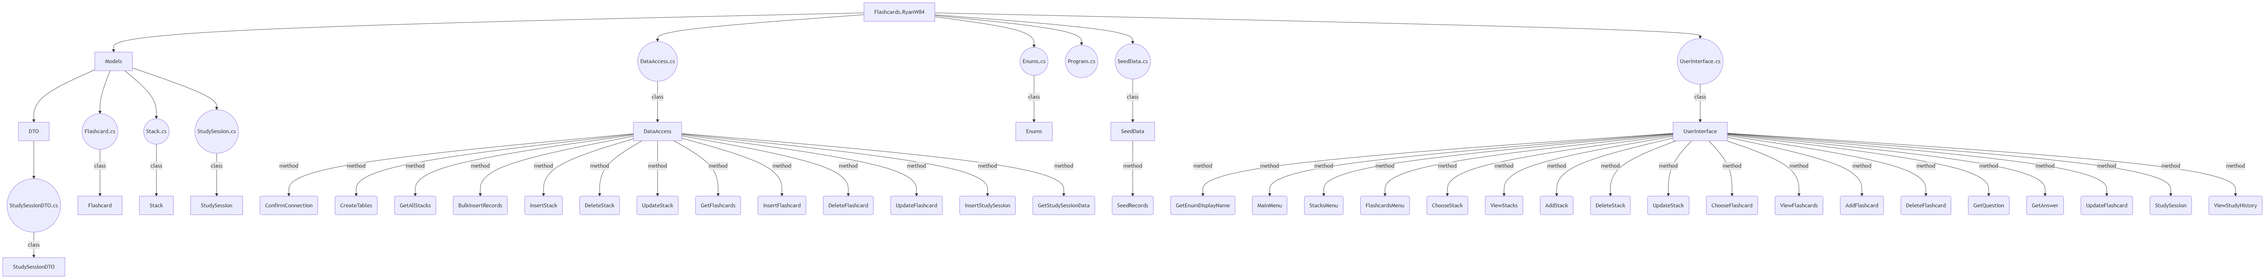
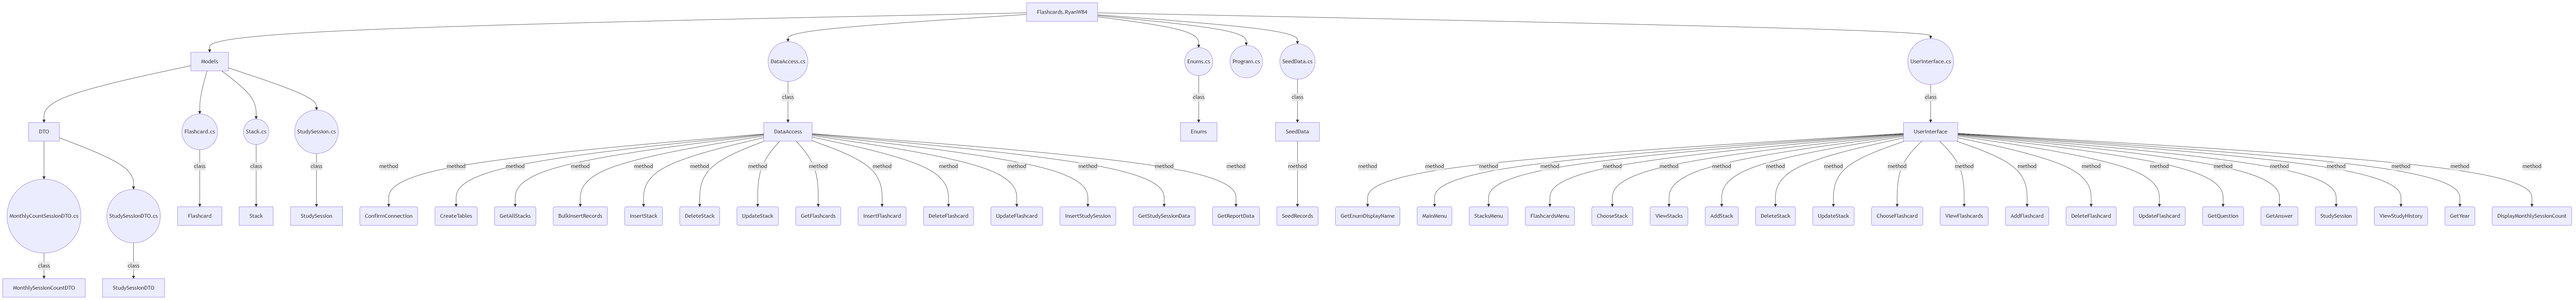
report functionality working, methods updated for screen clearing to improve usage

diff --git a/Flashcards.RyanW84/UserInterface.cs b/Flashcards.RyanW84/UserInterface.cs
@@ -1,4 +1,5 @@
 using System.ComponentModel.DataAnnotations;
+using System.Globalization;
 using Flashcards.RyanW84.Models;
 using Spectre.Console;
 using static Flashcards.RyanW84.Enums;
@@ -33,6 +34,8 @@ internal class UserInterface
 
         var isMenuRunning = true;
 
+        var userInterface = new UserInterface();
+
         while (isMenuRunning)
         {
             var usersChoice = AnsiConsole.Prompt(
@@ -57,7 +60,8 @@ internal class UserInterface
                     ViewStudyHistory();
                     break;
                 case MainMenuChoices.Reports:
-
+                    userInterface.DisplayMonthlySessionCount();
+                    break;
                 case MainMenuChoices.Quit:
                     System.Console.WriteLine("Goodbye");
                     isMenuRunning = false;
@@ -166,6 +170,9 @@ internal class UserInterface
             table.AddRow(index.ToString(), stack.Name);
         }
         AnsiConsole.Write(table);
+        Console.WriteLine("Press any key to return to Main Menu");
+        Console.ReadKey();
+        Console.Clear();
     }
 
     private static void AddStack()
@@ -247,6 +254,10 @@ internal class UserInterface
             );
         }
         AnsiConsole.Write(table);
+
+        Console.WriteLine("Press any key to return to Main Menu");
+        Console.ReadKey();
+        Console.Clear();
     }
 
     private static void AddFlashcard()
@@ -271,30 +282,6 @@ internal class UserInterface
 
         var dataAccess = new DataAccess();
         dataAccess.DeleteFlashcard(flashcard);
-    }
-
-    private static string GetQuestion()
-    {
-        var question = AnsiConsole.Ask<string>("Insert Question.");
-
-        while (string.IsNullOrEmpty(question))
-        {
-            question = AnsiConsole.Ask<string>("Question can't be empty. Try again.");
-        }
-
-        return question;
-    }
-
-    private static string GetAnswer()
-    {
-        var answer = AnsiConsole.Ask<string>("Insert answer.");
-
-        while (string.IsNullOrEmpty(answer))
-        {
-            answer = AnsiConsole.Ask<string>("Answer can't be empty. Try again.");
-        }
-
-        return answer;
     }
 
     private static void UpdateFlashcard()
@@ -327,7 +314,32 @@ internal class UserInterface
         dataAccess.UpdateFlashcard(flashcardId, propertiesToUpdate);
     }
 
-    internal static void StudySession()
+    private static string GetQuestion()
+    {
+        var question = AnsiConsole.Ask<string>("Insert Question.");
+
+        while (string.IsNullOrEmpty(question))
+        {
+            question = AnsiConsole.Ask<string>("Question can't be empty. Try again.");
+        }
+
+        return question;
+    }
+
+    private static string GetAnswer()
+    {
+        var answer = AnsiConsole.Ask<string>("Insert answer.");
+
+        while (string.IsNullOrEmpty(answer))
+        {
+            answer = AnsiConsole.Ask<string>("Answer can't be empty. Try again.");
+        }
+
+        return answer;
+    }
+
+    //Study Session Methods
+    private static void StudySession()
     {
         var id = ChooseStack("Choose Stack to study");
 
@@ -373,8 +385,9 @@ internal class UserInterface
         Console.Clear();
     }
 
-    internal static void ViewStudyHistory()
+    private static void ViewStudyHistory()
     {
+        Console.Clear();
         var dataAccess = new DataAccess();
         var sessions = dataAccess.GetStudySessionData();
 
@@ -398,48 +411,50 @@ internal class UserInterface
         }
 
         AnsiConsole.Write(table);
+        Console.WriteLine("Press any key to return to Main Menu");
+        Console.ReadKey();
+        Console.Clear();
     }
 
+    //Report Methods
     internal static int GetYear()
     {
         var year = AnsiConsole.Ask<int>("Please enter the Year to generate the report (YYYY)");
 
-        while (year >= 1000 && year <= 9999)
+        while (year <= 2000 && year >= 3025)
         {
             year = AnsiConsole.Ask<int>("Invalid date, try again");
         }
         return year;
     }
 
-    internal static void ViewReport()
+    internal void DisplayMonthlySessionCount()
     {
-        var dataAccess = new DataAccess();
-
         int year = GetYear();
+        var dataAccess = new DataAccess();
+        List<Models.DTO.MonthlySessionCountDTO> reportData = dataAccess.GetReportData(year);
 
-        var reportData = dataAccess.GetReportData(year);
+        if (reportData.Count == 0)
+        {
+            AnsiConsole.MarkupLine($"[red]No study sessions found for the year {year}.[/]");
+            return;
+        }
 
         var table = new Table();
+        table.AddColumn("Month");
+        table.AddColumn("Session Count");
 
-        table.AddColumn("Stack");
-        table.AddColumn("January");
-        table.AddColumn("February");
-        table.AddColumn("March");
-        table.AddColumn("April");
-        table.AddColumn("May");
-        table.AddColumn("June");
-        table.AddColumn("July");
-        table.AddColumn("August");
-        table.AddColumn("September");
-        table.AddColumn("October");
-        table.AddColumn("November");
-        table.AddColumn("December");
-
-        foreach (var entry in reportData)
+        foreach (var session in reportData)
         {
-            table.AddRow(entry.StackName, entry.Date.ToString());
+            table.AddRow(
+                new Text(CultureInfo.CurrentCulture.DateTimeFormat.GetMonthName(session.Month)),
+                new Text(session.SessionCount.ToString())
+            );
         }
 
         AnsiConsole.Write(table);
+        Console.WriteLine("Press any key to return to Main Menu");
+        Console.ReadKey();
+        Console.Clear();
     }
 }

diff --git a/Flashcards.RyanW84/DataAccess.cs b/Flashcards.RyanW84/DataAccess.cs
@@ -173,6 +173,9 @@ public class DataAccess
         {
             Console.WriteLine($"There was a problem inserting the stack: {ex.Message}");
         }
+        Console.WriteLine("Stack Added: Press any key to return to Main Menu");
+        Console.ReadKey();
+        Console.Clear();
     }
 
     internal void DeleteStack(int id)
@@ -192,6 +195,9 @@ public class DataAccess
         {
             Console.WriteLine($"There was a problem deleting the stack: {ex.Message}");
         }
+        Console.WriteLine("Stack Deleted: Press any key to return to Main Menu");
+        Console.ReadKey();
+        Console.Clear();
     }
 
     internal void UpdateStack(Stack stack)
@@ -208,6 +214,9 @@ public class DataAccess
 
             connection.Execute(updateQuery, new { stack.Name, stack.Id });
         }
+        Console.WriteLine("Stack Updated: Press any key to return to Main Menu");
+        Console.ReadKey();
+        Console.Clear();
     }
 
     //Flashcard Data Access Methods
@@ -263,6 +272,10 @@ public class DataAccess
         {
             Console.WriteLine($"There was a problem inserting the flashcard: {ex.Message}");
         }
+
+        Console.WriteLine("Flashcard added: Press any key to return to Main Menu");
+        Console.ReadKey();
+        Console.Clear();
     }
 
     internal void DeleteFlashcard(int id)
@@ -282,6 +295,10 @@ public class DataAccess
         {
             Console.WriteLine($"There was a problem deleting the flashcard: {ex.Message}");
         }
+
+        Console.WriteLine("Flashcard Deleted: Press any key to return to Main Menu");
+        Console.ReadKey();
+        Console.Clear();
     }
 
     internal void UpdateFlashcard(int flashcardId, Dictionary<string, object> propertiesToUpdate)
@@ -306,6 +323,9 @@ public class DataAccess
 
             connection.Execute(updateQuery, parameters);
         }
+        Console.WriteLine("Flashcard Updated: Press any key to return to Main Menu");
+        Console.ReadKey();
+        Console.Clear();
     }
 
     //Study Session Data Access Methods
@@ -364,23 +384,50 @@ public class DataAccess
         }
     }
 
-    internal List<StudySessionDTO> GetReportData(int year)
+    internal List<MonthlySessionCountDTO> GetReportData(int year)
     {
         using (var connection = new SqlConnection(ConnectionString))
         {
             connection.Open();
 
             string sqlGetReport =
-                $@"
+                @"
                 SELECT 
-                    MONTH(Date) AS Month, 
-                    COUNT(*) AS SessionCount
-                FROM StudySessions
-                WHERE Date BETWEEN '{year}-01-01' AND '{year}-12-31'
-                GROUP BY MONTH(Date)
-                ORDER BY Month";
+                    MonthNumber AS Month, 
+                    ISNULL(SessionCount, 0) AS SessionCount
+                FROM 
+                (
+                    SELECT 1 AS MonthNumber UNION ALL
+                    SELECT 2 UNION ALL
+                    SELECT 3 UNION ALL
+                    SELECT 4 UNION ALL
+                    SELECT 5 UNION ALL
+                    SELECT 6 UNION ALL
+                    SELECT 7 UNION ALL
+                    SELECT 8 UNION ALL
+                    SELECT 9 UNION ALL
+                    SELECT 10 UNION ALL
+                    SELECT 11 UNION ALL
+                    SELECT 12
+                ) AS Months
+                LEFT JOIN 
+                (
+                    SELECT 
+                        MONTH(Date) AS Month, 
+                        COUNT(*) AS SessionCount
+                    FROM StudySessions
+                    WHERE Date BETWEEN @StartDate AND @EndDate
+                    GROUP BY MONTH(Date)
+                ) AS Sessions
+                ON Months.MonthNumber = Sessions.Month
+                ORDER BY MonthNumber";
 
-            return connection.Query<StudySessionDTO>(sqlGetReport).ToList();
+            return connection
+                .Query<MonthlySessionCountDTO>(
+                    sqlGetReport,
+                    new { StartDate = $"{year}-01-01", EndDate = $"{year}-12-31" }
+                )
+                .ToList();
         }
     }
 }

diff --git a/Flashcards.RyanW84/Enums.cs b/Flashcards.RyanW84/Enums.cs
@@ -18,7 +18,7 @@ internal class Enums
         [Display(Name = "Study History")]
         StudyHistory,
 
-        [Display(Name = "Reports")]
+        [Display(Name = "Report: Monthly Session Count")]
         Reports,
 
         [Display(Name = "Quit")]

diff --git a/Flashcards.RyanW84/Models/DTO/MonthlyCountSessionDTO.cs b/Flashcards.RyanW84/Models/DTO/MonthlyCountSessionDTO.cs
@@ -1,0 +1,7 @@
+namespace Flashcards.RyanW84.Models.DTO;
+
+internal class MonthlySessionCountDTO
+{
+    public int Month { get; set; }
+    public int SessionCount { get; set; }
+}

diff --git a/Flashcards.RyanW84/Program.cs b/Flashcards.RyanW84/Program.cs
@@ -6,6 +6,6 @@ dataAccess.ConfirmConnection();
 
 dataAccess.CreateTables();
 
-//SeedData.SeedRecords();
+//Seed Data method goes here, when its needed
 
 UserInterface.MainMenu();
